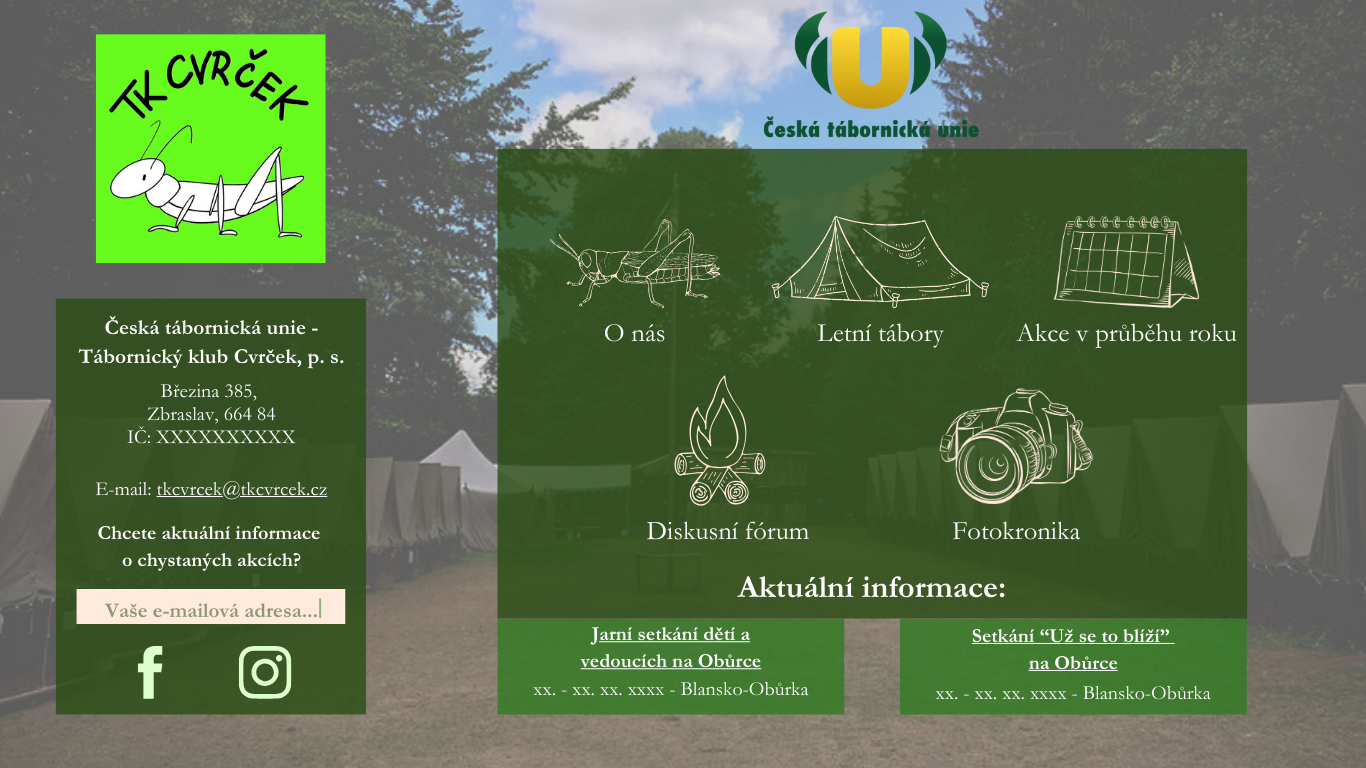
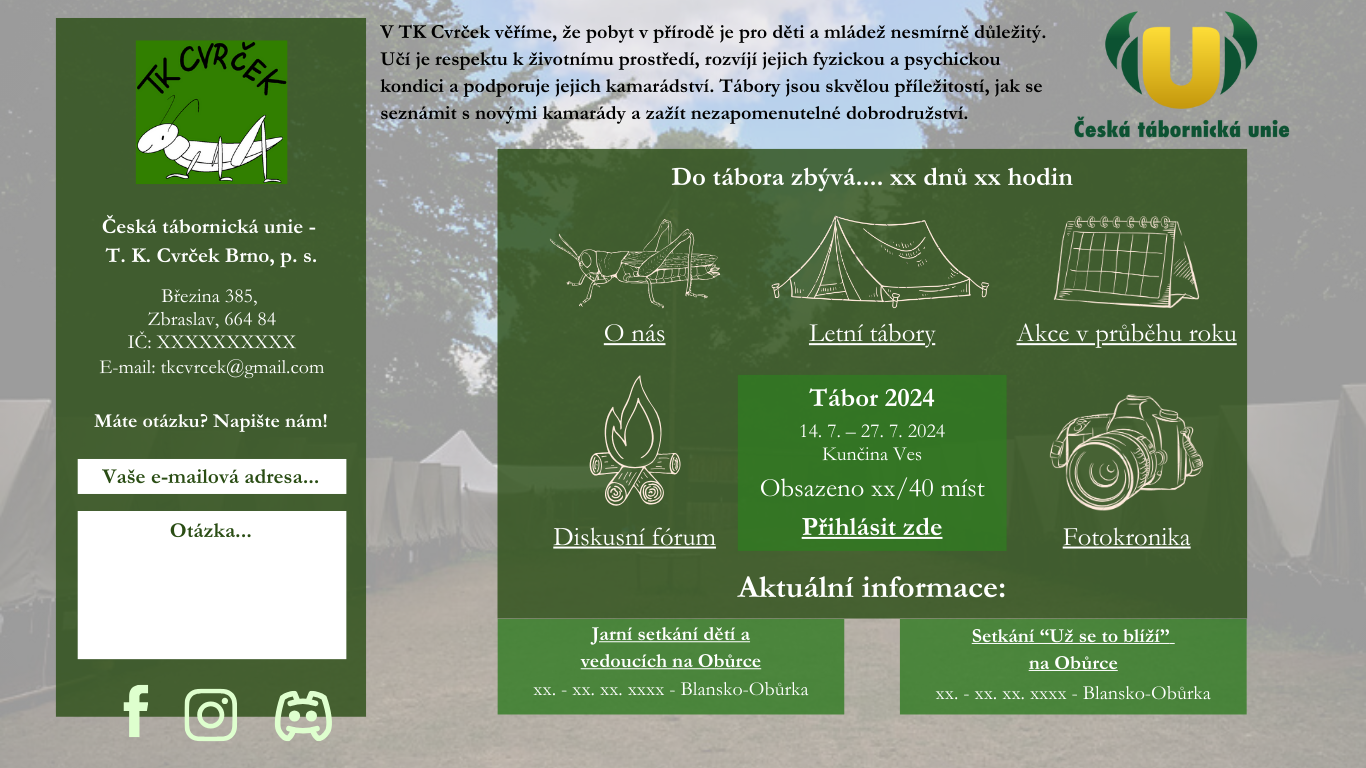
zakladni rozlozeni hotovo

diff --git a/src/pages/ONas/index.jsx b/src/pages/ONas/index.jsx
@@ -1,14 +1,35 @@
 import './style.scss';
+import DavidPhoto from './leader_phots/DavidPhoto.jpg';
+import JancaPhoto from './leader_phots/JancaPhoto.jpg';
+import JindraPhoto from './leader_phots/JindraPhoto.jpg';
+// Import other photos similarly
+
+
 
 export const ONas = () => {
+  const leaders = ["Ruda", "David", "Janča", "Marťa", "Áňa", "Ondra", "Jindra", "Vojta"];
+  const photos = [DavidPhoto, JindraPhoto, JancaPhoto];
+
+  const leadersWithPhotos = leaders.map((leaderName, index) => ({
+    name: leaderName,
+    photo: photos[index],
+  }));
+
   return (
     <div>
       <h1>O nás</h1>
       <p>V TK Cvrček věříme, že pobyt v přírodě je pro děti a mládež nesmírně důležitý. Učí je respektu k životnímu prostředí, rozvíjí jejich fyzickou a psychickou kondici a podporuje jejich kamarádství. Proto pořádáme letní tábory, víkendové výlety a další akce, na kterých se děti a mládež můžou s radostí pustit do nejrůznějších aktivit. Každý rok se těšíme na tábory pod stanem v krásné krajině nedaleko Lysic u Brna. Tábory jsou skvělou příležitostí, jak se seznámit s novými kamarády a zažít nezapomenutelné dobrodružství.</p>
       <h3>Tým vedoucích</h3>
       <p>Naše parta vedoucích se skládá z mladých lidí s bohatými zkušenostmi s tábornictvím a pobytem v přírodě. Jsme zodpovědní, spolehliví a s úsměvem na tváři se vrháme do všech aktivit, které pro naše táborníky chystáme. Máme zkušenosti z dlouholetého fungování klubu TK Delfín, v němž jsme všichni vyrostli jako účastníci a postupně přešli do role vedoucích a instruktorů. Tábory i ostatní akce pořádáme ve svém volném čase vedle studia či práce, protože v tom vidíme smysl a chceme předávat naše zážitky z tábornického klubu dál.
-+ vtipné fotky vedoucích se jmény
-</p>
+      </p>
+      <ul>
+        {leadersWithPhotos.map((person, index) => (
+          <li key={index}>
+            <a href={`#${person.name}`}>{person.name}</a>
+            <img src={person.photo} alt={person.name} />
+          </li>
+        ))}
+      </ul>
     </div>
   );
 };

diff --git a/src/pages/LeftSidebar/hamburgerMenu/style.scss b/src/pages/LeftSidebar/hamburgerMenu/style.scss
@@ -1,0 +1,78 @@
+.hamburger-menu {
+  position: relative;
+
+  .hamburger-icon {
+    background: none;
+    border: none;
+    cursor: pointer;
+    display: flex;
+    flex-direction: column;
+    padding: 10px;
+  }
+
+  .bar {
+    background-color: #333;
+    height: 3px;
+    width: 25px;
+    margin: 5px 0;
+    transition: 0.3s;
+  }
+
+  .open {
+    .bar:nth-child(1) {
+      transform: rotate(-45deg) translate(-5px, 6px);
+    }
+
+    .bar:nth-child(2) {
+      opacity: 0;
+    }
+
+    .bar:nth-child(3) {
+      transform: rotate(45deg) translate(-5px, -6px);
+    }
+  }
+
+  .menu-content {
+    display: none;
+    position: absolute;
+    top: 60px;
+    left: 0;
+    background-color: #fff;
+    box-shadow: 0 0 10px rgba(0, 0, 0, 0.1);
+    padding: 10px;
+    z-index: 1;
+
+    &.open {
+      display: block;
+    }
+
+    p {
+      margin: 0;
+      padding: 10px;
+      border-bottom: 1px solid #ccc;
+    }
+  }
+}
+
+.menu-content{
+  nav {
+    ul {
+      margin: 0;
+      padding: 0;
+      list-style: none;
+    }
+
+    li { 
+      display: block;
+      text-decoration: none;
+      color: black;
+    
+    }
+
+    a {
+      display: block;
+      padding: 6px 12px;
+      text-decoration: none;
+    }
+  }
+}

diff --git a/src/pages/LeftSidebar/index.jsx b/src/pages/LeftSidebar/index.jsx
@@ -1,0 +1,37 @@
+import { HamburgerMenu } from './hamburgerMenu';
+import './style.scss';
+import Logo_Cvrcek_Barev from "./../../images/logos/Logo_Cvrcek_Barev.png"
+
+export const LeftSidebar = () => {
+  return (
+  <div className="left_sidebar">
+    <img src={ Logo_Cvrcek_Barev } alt="logo TK Cvrček" className="logo_cvrcek" />
+    <HamburgerMenu />
+    <div className="text_adresa">
+      <p className="text_adresa--bold">Česká tábornická unie -</p>
+      <p className="text_adresa--bold">T. K. Cvrček Brno, p. s.</p>
+      <p>Březina 385,</p>
+      <p>Zbraslav 664 84</p>
+      <p>IČ: XXXXXXXXXXXXX</p>
+      <p>E-mail: tkcvrcek@gmail.com</p>
+      <p></p>
+      <p className="text_adresa--bold">Máte otázku? Napište nám!</p>
+    </div>
+    <form>
+      <input
+        type="email"
+        id="email"
+        name="email"
+        placeholder="Vaše e-mailová adresa..."
+      />
+      <br />
+      <input 
+        type="text"
+        id="otazka"
+        name="otazka"
+        placeholder="Otázka..."
+      />
+    </form>
+  </div>
+  )
+};

diff --git a/src/pages/LeftSidebar/hamburgerMenu/index.jsx b/src/pages/LeftSidebar/hamburgerMenu/index.jsx
@@ -1,0 +1,40 @@
+import React, { useState } from 'react';
+import { Outlet, Link } from "react-router-dom";
+import './style.scss';
+
+export const HamburgerMenu = () => {
+  const [isOpen, setIsOpen] = useState(false);
+
+  const toggleMenu = () => {
+    setIsOpen(!isOpen);
+  };
+
+  return (
+    <div className={`hamburger-menu ${isOpen ? 'open' : ''}`}>
+      <button className="hamburger-icon" onClick={toggleMenu}>
+        <span className="bar"></span>
+        <span className="bar"></span>
+        <span className="bar"></span>
+      </button>
+      <div className="menu-content">
+        <nav>
+        <ul>
+          <li>
+            <Link to="/">Uvodní stránka</Link>
+          </li>
+          <li>
+            <Link to="/akcevroce">Akce v průběhu roku</Link>
+          </li>
+          <li>
+            <Link to="/onas">O nás</Link>
+          </li>
+          <li>
+            <Link to="/letnitabory">Letní tábory</Link>
+          </li>
+        </ul>
+      </nav>
+      </div>
+      <Outlet />
+    </div>
+  );
+};

diff --git a/src/pages/Layout/index.jsx b/src/pages/Layout/index.jsx
@@ -1,27 +1,15 @@
-import { Outlet, Link } from "react-router-dom";
 import './style.scss';
+import kuncinaVes from "./../../images/logos/kuncinaVes.jpg";
+import { LeftSidebar } from "./../LeftSidebar";
+import { Main } from '../Main';
+import logo from "./../../images/logos/logo.png"
 
 export const Layout = () => {
   return (
-    <>
-      <nav>
-        <ul>
-          <li>
-            <Link to="/">Uvodní stránka</Link>
-          </li>
-          <li>
-            <Link to="/akcevroce">Akce v průběhu roku</Link>
-          </li>
-          <li>
-            <Link to="/onas">O nás</Link>
-          </li>
-          <li>
-            <Link to="/letnitabory">Letní tábory</Link>
-          </li>
-        </ul>
-      </nav>
-
-      <Outlet />
-    </>
+    <div className="whole" style={{ backgroundImage: `url(${kuncinaVes})` }}>
+      <LeftSidebar />
+      <Main />
+      <img className="logoCTU" src={logo} alt="logo české tábornické unie" />
+    </div>  
   )
 };

diff --git a/src/index.jsx b/src/index.jsx
@@ -1,5 +1,5 @@
 import { createRoot } from 'react-dom/client';
-import { BrowserRouter, Routes, Route } from "react-router-dom";
+import { BrowserRouter as Router, Routes, Route } from 'react-router-dom';
 import { Layout } from './pages/Layout';
 import { UvodniStranka } from './pages/UvodniStranka';
 import { ONas } from './pages/ONas';
@@ -9,7 +9,7 @@ import './global.scss';
 
 export default function App() {
   return (
-    <BrowserRouter>
+    <Router>
       <Routes>
         <Route path="/" element={<Layout />}>
           <Route index element={<UvodniStranka />} />
@@ -18,11 +18,9 @@ export default function App() {
           <Route path="letnitabory" element={<LetniTabory />} />
         </Route>
       </Routes>
-    </BrowserRouter>
+    </Router>
   );
 }
-
-
 
 createRoot(
   document.querySelector('#app'),

diff --git a/src/pages/Layout/style.scss b/src/pages/Layout/style.scss
@@ -1,20 +1,13 @@
-nav {
-  ul {
-    margin: 0;
-    padding: 0;
-    list-style: none;
-  }
+.whole {
+  display: flex;
+  background-size: cover;
+  background-position: center;
+  background-repeat: whole;
+}
 
-  li { 
-    display: block;
-    text-decoration: none;
-    color: black;
-  
-  }
-
-  a {
-    display: block;
-    padding: 6px 12px;
-    text-decoration: none;
-  }
+.logoCTU{
+  width: 200px;
+  position:fixed;
+  right: 100px;
+  margin: 5px;
 }

diff --git a/css/style.css b/css/style.css
@@ -1,12 +1,13 @@
-/*# sourceMappingURL=style.css.map */ list-style: none;
+.whole {
+  display: flex;
+  background-size: cover;
+  background-position: center;
+  background-repeat: whole;
 }
-nav li {
-  display: block;
-  text-decoration: none;
-  color: black;
-}
-nav a {
-  display: block;
-  padding: 6px 12px;
-  text-decoration: none;
+
+.logoCTU {
+  width: 200px;
+  position: fixed;
+  right: 100px;
+  margin: 5px;
 }/*# sourceMappingURL=style.css.map */

diff --git a/src/pages/UvodniStranka/index.jsx b/src/pages/UvodniStranka/index.jsx
@@ -1,12 +1,7 @@
-import './style.scss';
-import logo from './../../images/logo.png';
-import Logo_Cvrcek_Barev from './../../images/Logo_Cvrcek_Barev.png';
+import "./style.scss"
 
 export const UvodniStranka = () => {
-  return (
-    <div>
-      <img src={ logo } alt="logo České tábornické unie" />
-      <img src={ Logo_Cvrcek_Barev } alt="logo TK Cvrček" />
-    </div>
-  );
+  return(
+    <div></div>
+  )
 };

diff --git a/src/pages/LeftSidebar/style.scss b/src/pages/LeftSidebar/style.scss
@@ -1,0 +1,22 @@
+.left_sidebar {
+  background-color: #405c2f;
+  padding: 10px 20px 50px;
+  margin: 20px auto 50px 50px;
+  display: inline-block;
+  position: relative;
+  overflow: hidden;
+}
+
+.logo_cvrcek{
+  width: 200px;
+  margin: 10px;
+  object-fit: cover;
+}
+
+.text_adresa{
+  color: white;
+
+  &--bold{
+    font-weight: bold;
+  }
+}

diff --git a/css/global.css b/css/global.css
@@ -5,10 +5,4 @@
 
 html {
   font-family: "Open Sans", sans-serif;
-}
-
-.container {
-  max-width: 26rem;
-  margin-right: auto;
-  margin-left: auto;
 }/*# sourceMappingURL=global.css.map */

diff --git a/src/global.scss b/src/global.scss
@@ -6,10 +6,4 @@
 
 html {
   font-family: 'Open Sans', sans-serif;
-}
-
-.container {
-  max-width: 26rem;
-  margin-right: auto;
-  margin-left: auto;
-}
+};
